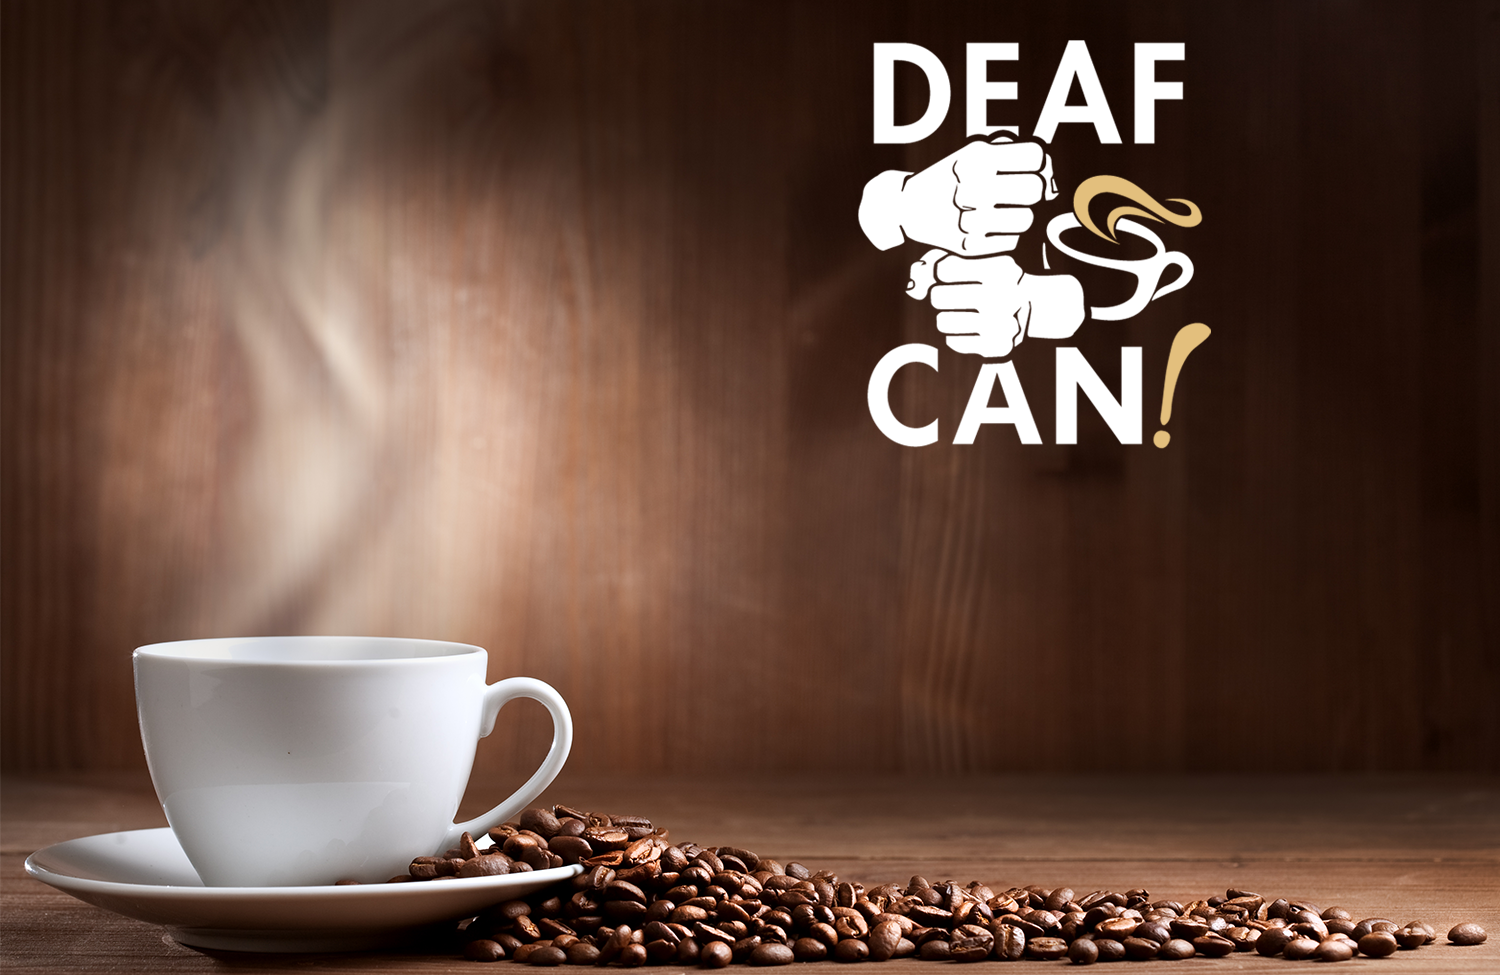
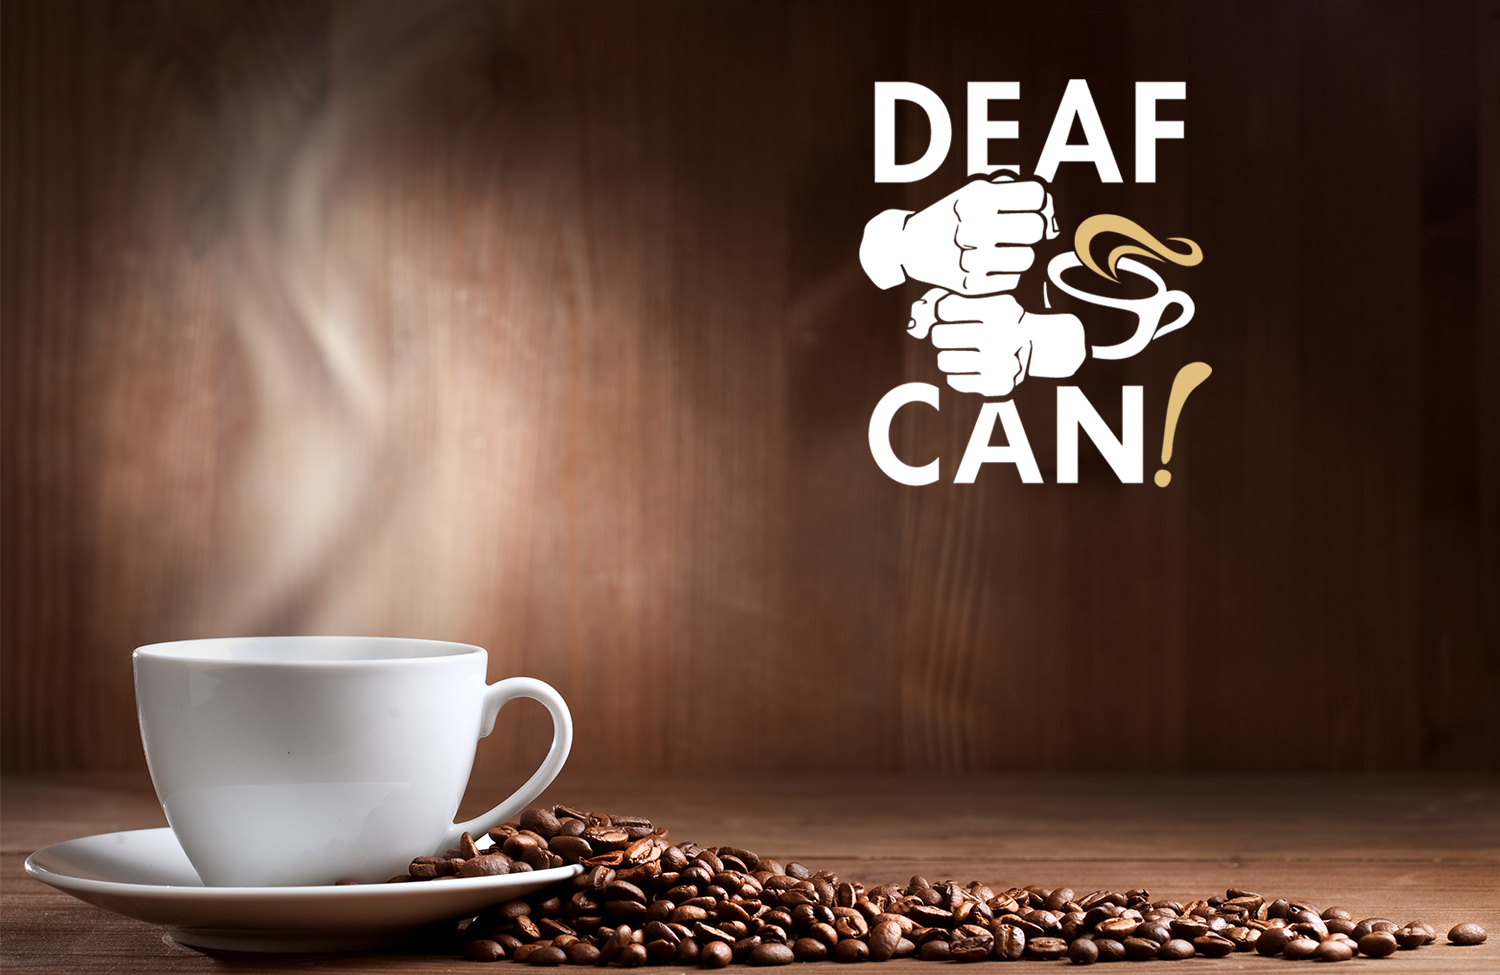
Updated background image for all pages, added shadows to cards and buttons, centered 'price' element of the cart page, added new homepage wallpaper.

Changed region(s): [[0.552, 0.0308, 0.828, 0.4923]]

diff --git a/ionic/src/app/app.scss b/ionic/src/app/app.scss
@@ -29,12 +29,12 @@
 
 /*===================== ALL / HEADER */
 .content, .content-default, .content-ios, .content-md { // set background image
-  background-image: url("../assets/images/tan-gradient.svg");
+  background-image: url("../assets/images/general-background-1.jpg");
   background-size: 100% 100%;
 }
 
 .toolbar-background, .toolbar-background-default, .toolbar-background-ios, .toolbar-content-md { // background color of top toolbar
-  background-color: #8b635c;
+  background-color: #271a0c;
 }
 
 .scroll-content, .scroll-content-default, .scroll-content-ios, .scroll-content-md {
@@ -49,25 +49,27 @@
 .card, .card-default, .card-ios, .card-md {
   background-color: #fff;
   overflow: hidden;
+  box-shadow: 0 8px 16px 0 rgba(0,0,0,0.2), 0 6px 20px 0 rgba(0,0,0,0.19);
 }
 
 .card-content, .card-content-default, .card-content-ios, .card-content-md {
   font-size: 120%;
-  color: #8b635c;
+  color: #271a0c;
 }
 
 .card-header, .card-header-default, .card-header-ios, .card-header-md {
   color: #f0ead6;
-  background-color: #8b635c;
+  background-color: #271a0c;
   font-size: 150%;
 }
 
 /*===================== BUTTONS */
 .button, .button-default, .button-ios, .button-md {
-  border-color: #dcbf85;
+  //border-color: #dcbf85;
   color: #f0ead6;
-  background-color: #8b635c;
+  background-color: #271a0c;
   font-size: 100%;
+  box-shadow: 0 8px 16px 0 rgba(0,0,0,0.2), 0 6px 20px 0 rgba(0,0,0,0.19);
 }
 
 .clickable:active {

diff --git a/ionic/src/pages/recommendations/recommendations.html b/ionic/src/pages/recommendations/recommendations.html
@@ -8,19 +8,17 @@
 
 <ion-content padding>
 
-  <!-- header for perfect matches -->
-  <ion-card class="section" *ngIf="numFullMatches">
-    <ion-card-header>
+  <ion-card class="section">
+    <!-- header for perfect matches -->
+    <ion-card-header *ngIf="numFullMatches">
       <strong>It's a perfect match! These items fit all your preferences.</strong>
     </ion-card-header>
-  </ion-card>
 
-  <!-- header for no perfect matches -->
-  <ion-card class="section" *ngIf="!numFullMatches">
-    <ion-card-header>
-      <strong>Looks like there aren't any items that perfectly match your preferences.</strong>
-    </ion-card-header>
-  </ion-card>
+    <!-- header for no perfect matches -->
+      <ion-card-header *ngIf="!numFullMatches">
+        <strong>Looks like there aren't any items that perfectly match your preferences.</strong>
+      </ion-card-header>
+    </ion-card>
 
   <!-- perfect matches -->
   <ion-card class="menu clickable" *ngFor="let item of fullMatches" (click)="openItemPage(item)">

diff --git a/ionic/src/pages/form/form.html b/ionic/src/pages/form/form.html
@@ -1,7 +1,7 @@
 <ion-header>
   <ion-navbar>
     <ion-title>
-       Help Me Decide
+      Help Me Decide
     </ion-title>
     <ion-buttons end>
       <button ion-button class="clickable" (click)="openCheckoutPage()">My Cart</button>
@@ -12,10 +12,10 @@
 <ion-content padding>
   <ion-slides #slides (ionSlideDidChange)="slideChanged()">
     <ion-slide *ngFor="let question of questions">
-      <h2>{{ question.prompt }}</h2>
-      <button ion-button *ngFor="let option of question.options;" (click)="selectAnswer(option)">
-        {{ option }}
-      </button>
+
+            <h2>{{ question.prompt }}</h2>
+            <button ion-button *ngFor="let option of question.options;" (click)="selectAnswer(option)">{{ option }}</button>
+
     </ion-slide>
   </ion-slides>
 </ion-content>

diff --git a/ionic/src/pages/checkout/checkout.scss b/ionic/src/pages/checkout/checkout.scss
@@ -7,13 +7,21 @@
 
 .row-border, .row-border-default, .row-border-ios, .row-border-md {
   border-top: 1px solid lightgray;
-  padding: 15px 0px 0px 0px;
+  padding: 10px 0px 10px 0px;
+  .col{
+    display: flex;
+    align-items: center;
+  }
 }
 
 .edit, .remove {
-  color: #8b635c;
   background-color: transparent;
+  border: 1px solid #271a0c;
+  color: #271a0c;
+  width: 50%;
   font-size: 80%;
+
+  box-shadow: 0 0px 0px 0 rgba(0,0,0,0), 0 0px 0px 0 rgba(0,0,0,0); // no shadow please!
 }
 
 .clear {

diff --git a/ionic/src/pages/item/item.scss b/ionic/src/pages/item/item.scss
@@ -21,24 +21,27 @@
   height: 87px;
   margin-top: 12px;
   font-size: 200%;
+  border: 1px solid tan;
 }
 
 /*===================== CARD */
 
 .price { // for price card
-  background-color: #dcbf85;
-  color: #8b635c;
+  background-color: #271a0c;
   width: 46%;
   float: left;
   padding: 10px;
+  border: 1px solid tan;
 }
 
 .priceinner { // for content of price card
   font-size: 200%;
   text-align: center;
+  color: #f0ead6;
 }
 
 .description {
+  color: #271a0c;
   font-size: 150%;
 }
 

diff --git a/ionic/src/pages/checkout/checkout.html b/ionic/src/pages/checkout/checkout.html
@@ -38,7 +38,7 @@
                   {{ modifier }}<br>
                 </ng-container>
               </div>
-              <div class="col">{{item.price}}</div>
+              <div class="col">${{item.price}}</div>
               <div class="col">
                 <button ion-button clear class="edit clickable">Edit</button>
                 <button ion-button clear class="remove clickable" (click)="removeItem(item)">Remove</button>

diff --git a/ionic/src/pages/home/home.html b/ionic/src/pages/home/home.html
@@ -4,5 +4,8 @@
       <button ion-button class="equal clickable" (click)="openForm()">Help Me Decide</button>
       <button ion-button class="equal clickable" (click)="openFullMenu()">Full Menu</button>
     </div>
+    <div>
+      <button ion-button class="clickable" (click)="openAdminPage()">Open Admin Page</button>
+    </div>
 
 </ion-content>

diff --git a/ionic/src/pages/home/home.scss b/ionic/src/pages/home/home.scss
@@ -13,7 +13,7 @@ page-home {
 .options {
   position:absolute;
   transition: .5s ease;
-  top: 57%;
+  top: 53%;
   left: 43%;
   font-size: 24px;
 

diff --git a/ionic/src/pages/form/form.scss b/ionic/src/pages/form/form.scss
@@ -1,3 +1,6 @@
 page-form {
-
+  .slide-zoom {
+    color: #dcbf85;
+    //color: #e2cb9c
+  }
 }
